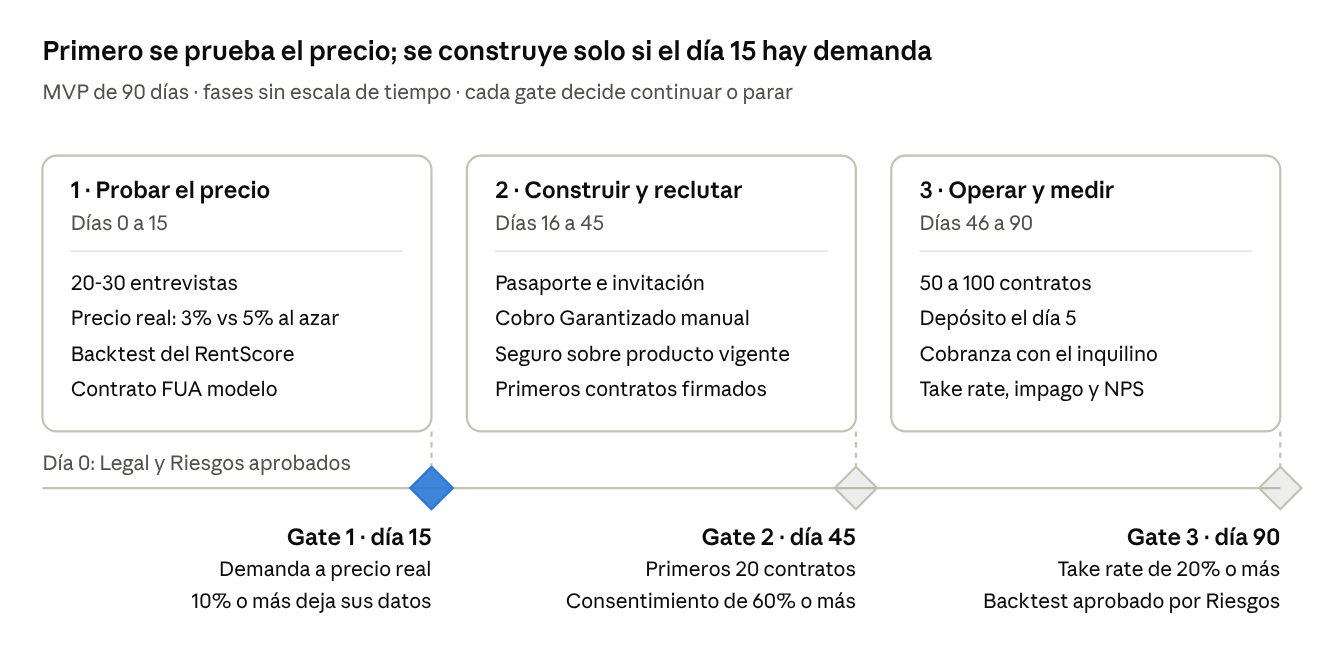
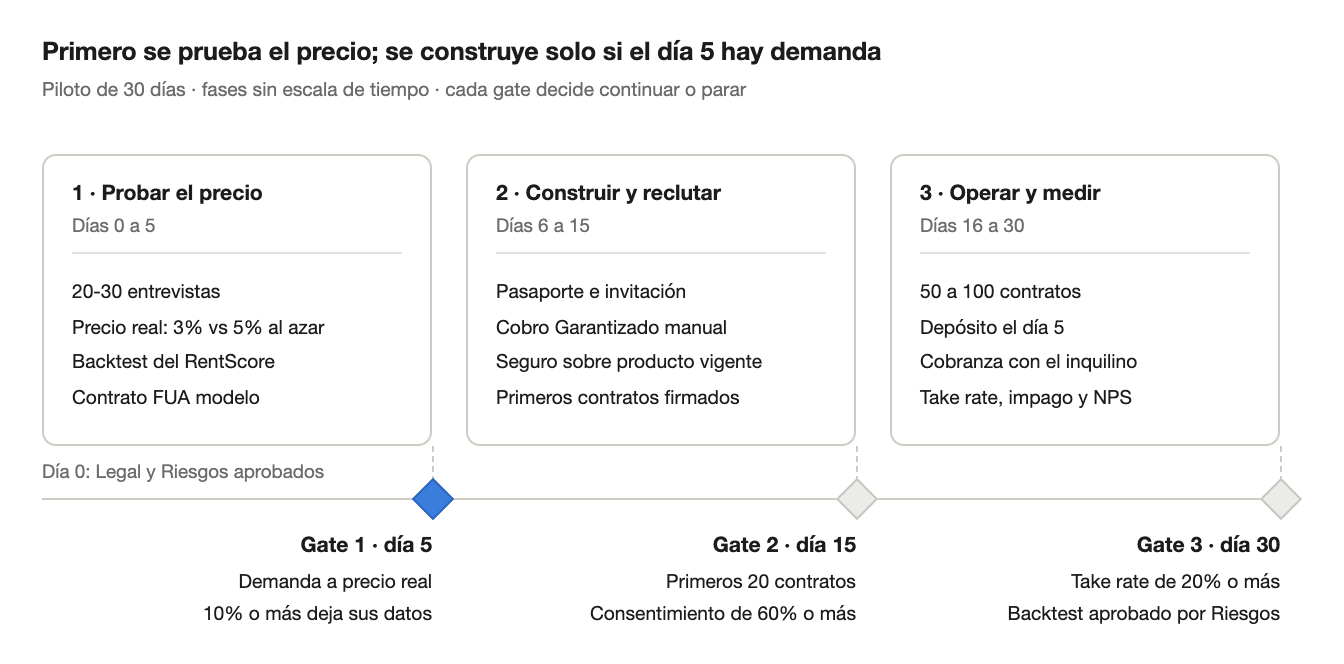
Piloto de 30 días, mercado de 700 mil hogares y caso financiero integrado
- Decisión 026: el piloto dura 30 días y reemplaza la duración de la 004. Se
  actualizan las referencias vigentes (README, CONTRATOS, CLAUDE.md, mvp/,
  decisiones 001, 012, 017, 022, 023 y 024, context/01, 02 y 06). Se mantienen
  la rúbrica oficial y los registros históricos, con nota donde corresponde.
- context/06: gates reescalados a los días 5, 15 y 30 y roadmap regenerado.
- Mercado: 700 mil hogares arrendatarios en Lima Metropolitana (context/03 y 06).
- Decisión 011 tomada: el modelo financiero a 5 años es el caso base, con sus
  resultados a 700 mil hogares y cuatro pendientes conocidos. Se integra en la
  copia del Big Idea (context/01).

diff --git a/context/06-recomendaciones-final.md b/context/06-recomendaciones-final.md
@@ -2,6 +2,8 @@
 
 > **Qué es:** copia versionada del doc vivo «La Llave — Recomendaciones iniciales para la final» en Claude Docs ([enlace](https://claude.ai/code/artifact/4eed856b-4c08-4bb7-ad2a-a13550ff75b1); solo lo abre quien tenga acceso compartido). Si ambos difieren, manda esta copia hasta que un PR la actualice.
 >
+> **Actualización (30 sept 2026):** los plazos pasan a un piloto de 30 días (`decisions/026`): gates en los días 5, 15 y 30, antes 15, 45 y 90. El mercado pasa a 700 mil hogares (`03-mercado-y-fuentes.md`). El resto del texto no cambió.
+>
 > **Fecha:** 29 sept 2026. **Autor:** Diego Moscoso, con Claude. **Estado:** propuesta para discusión del equipo; no cierra ninguna decisión.
 >
 > **Relación con decisiones:** las propuestas que cambian decisiones vigentes están abiertas en `decisions/021` a `decisions/025`. Los hechos verificados están en `03-mercado-y-fuentes.md`.
@@ -10,7 +12,7 @@
 
 ## Resumen ejecutivo
 
-LLAVE ya tiene lo más difícil: un dolor claro y dos journeys conectados que se pueden demostrar. Hoy puntuaría por debajo de su potencial por cuatro huecos: el impacto no tiene cifra propia, la novedad se afirma de forma frágil, el MVP es muy ancho para 90 días y la demo termina antes de cumplir la promesa.
+LLAVE ya tiene lo más difícil: un dolor claro y dos journeys conectados que se pueden demostrar. Hoy puntuaría por debajo de su potencial por cuatro huecos: el impacto no tiene cifra propia, la novedad se afirma de forma frágil, el MVP es muy ancho para un piloto de 30 días y la demo termina antes de cumplir la promesa.
 
 **La frase de 30 segundos (propuesta).** Casi 1 de cada 4 viviendas de Lima se alquila y el propietario elige inquilino a ciegas. Con LLAVE, Interbank evalúa al inquilino e Interseguro protege el inmueble; el propietario cobra el día 5, pague o no el inquilino. Y el inquilino construye historial crediticio pagando su alquiler, algo que hoy no le suma.
 
@@ -95,7 +97,7 @@ Cuatro reglas que no se negocian al cambiar la UI:
 3. **0:50-1:20 · La bandeja decide.** Lucía es garantizable; Jorge no, porque la renta supera su capacidad; Kevin tiene score bajo.
 4. **1:20-2:00 · Decide y protege.** Carmen acepta a Lucía: el seguro de S/36 al mes lo paga Lucía, y Carmen activa Cobro Garantizado por S/54 al mes.
 5. **2:00-2:30 · El mes 4.** Lucía no paga. Carmen recibe S/1,746 el día 5 e Interbank gestiona el pago con Lucía.
-6. **2:30-3:00 · El cierre.** Lucía era invisible para el banco y hoy construye historial. Pedido al jurado: 90 días, un squad y un tope de pérdida en soles.
+6. **2:30-3:00 · El cierre.** Lucía era invisible para el banco y hoy construye historial. Pedido al jurado: 30 días, un squad y un tope de pérdida en soles.
 
 ## Definiciones de negocio: del catálogo de niveles al contrato garantizado
 
@@ -160,7 +162,7 @@ Con las seis jugadas, el puntaje ponderado estimado sube de 2.65 a 4.15 sobre 5.
 | --- | --- | --- | --- | --- | --- |
 | Impacto potencial | 40% | 2.5 | 4.0 | Cifras heredadas de la herramienta de IA, sin ingresos para los niveles 2 y 3 y sin evidencia de demanda | Caso base por contrato (decisión 011), North Star, entrevistas con prueba de precio y contratos ya existentes |
 | Necesidad y enfoque innovador | 30% | 3.5 | 4.5 | Dolor real pero sin entrevistas formales; «no existe en Latinoamérica» es falso | Novedad acotada con fuentes (en el Perú no encontramos garantía de renta), el alquiler como historial crediticio y el pasaporte portátil |
-| Factibilidad (MVP en 90 días) | 30% | 2.0 | 4.0 | Cuatro niveles, marketplace propio y dos productos de crédito sin aprobación de Riesgos, Legal ni SBS | Estructura legal cerrada antes del día 0, tope de pérdida en soles, Renta Adelantada acotada y marketplace liviano |
+| Factibilidad (rúbrica: MVP en 90 días; piloto de 30) | 30% | 2.0 | 4.0 | Cuatro niveles, marketplace propio y dos productos de crédito sin aprobación de Riesgos, Legal ni SBS | Estructura legal cerrada antes del día 0, tope de pérdida en soles, Renta Adelantada acotada y marketplace liviano |
 | **Total ponderado** | 100% | **2.65** | **4.15** | | |
 
 Es una estimación cualitativa para priorizar, hecha sobre el repositorio al 29 sept 2026. No predice la nota del jurado.
@@ -181,12 +183,12 @@ El jurado va a atacar riesgo, legalidad y demanda antes que la interfaz. Cada re
 | 8 | ¿Cómo recuperan el inmueble si no paga? | Con contratos listos para desalojo notarial (Ley 30933): FUA o escritura pública, dos cláusulas y la renta abonada en una cuenta supervisada por la SBS. La Cuenta Arrendador cumple ese requisito | Modelo de contrato revisado por Legal |
 | 9 | ¿Cómo evitan la selección adversa? | El seguro y la garantía solo se ofrecen después del score. Son elegibles las bandas media y alta con renta dentro de la capacidad de pago | Reglas aprobadas por Riesgos (decisión 021) |
 | 10 | ¿Cómo verifican el ingreso de quien no es cliente? | Hoy el prototipo lo simula. Con su consentimiento, el inquilino sustenta su ingreso; mientras no esté verificado, se usa una capacidad de pago conservadora | Fuente de ingreso para no clientes definida con Riesgos |
-| 11 | ¿Qué aprenden de riesgo en solo 90 días? | Poco, y lo decimos: con 100 contratos jóvenes, incluso 10% de impago anual daría 1 o 2 casos. El riesgo se estima con un backtest y se confirma con 12 meses de seguimiento | Backtest del RentScore sobre clientes que ya pagan alquiler por transferencia, con Legal |
+| 11 | ¿Qué aprenden de riesgo en solo 30 días? | Poco, y lo decimos: con 100 contratos jóvenes, incluso 10% de impago anual daría 1 o 2 casos. El riesgo se estima con un backtest y se confirma con 12 meses de seguimiento | Backtest del RentScore sobre clientes que ya pagan alquiler por transferencia, con Legal |
 | 12 | ¿Para qué un marketplace si ya existen portales? | No competimos por avisos: el Pasaporte RentScore funciona en cualquier aviso, y el marketplace es la vitrina mínima del piloto | Costo de tráfico y revisión de la 017 (decisión 023) |
 | 13 | ¿Cómo consiguen propietarios sin gastar en medios? | Muchos ya están en la base: clientes que reciben transferencias recurrentes de montos de alquiler. Se usará solo con aprobación de Legal | Conteo validado por Legal y Compliance |
-| 14 | ¿De qué tamaño es la oportunidad? | La provincia de Lima tenía 520,202 viviendas alquiladas en 2017; el equipo estima 650-700 mil hogares hoy. Por contrato de S/1,800, el grupo cobra S/1,080 a S/1,836 al año antes de pérdidas | Caso base de la decisión 011 |
+| 14 | ¿De qué tamaño es la oportunidad? | La provincia de Lima tenía 520,202 viviendas alquiladas en 2017; el equipo estima 700 mil hogares hoy. Por contrato de S/1,800, el grupo cobra S/1,080 a S/1,836 al año antes de pérdidas | Caso base de la decisión 011 |
 | 15 | ¿Qué pasa con los datos y el sesgo del algoritmo? | El propietario ve score y capacidad, nunca movimientos ni saldos. El consentimiento es granular y revocable, y el score se explica por factores | Revisión de Legal (Ley 29733) y de Riesgos sobre las variables |
-| 16 | ¿Qué nos piden y cuánto podemos perder? | Noventa días, un squad de cinco personas y un tope de pérdida. Si los 100 contratos dejaran de pagar desde el mes 4, se perderían S/1.2 millones; con 5% de impago severo, unos S/60 mil | Costo real del squad, no la cifra de IA de US$400-500K; cada Renta Adelantada expone hasta S/18,360 |
+| 16 | ¿Qué nos piden y cuánto podemos perder? | Treinta días, un squad de cinco personas y un tope de pérdida. Si los 100 contratos dejaran de pagar desde el mes 4, se perderían S/1.2 millones; con 5% de impago severo, unos S/60 mil | Costo real del squad, no la cifra de IA de US$400-500K; cada Renta Adelantada expone hasta S/18,360 |
 
 ### Precedentes que el jurado puede citar
 
@@ -202,11 +204,11 @@ La categoría existe y escala en la región. En el Perú no encontramos una gara
 
 La necesidad tiene voz propia: en 2024 la Cámara Inmobiliaria Peruana propuso un seguro contra inquilinos morosos y dijo que el alquiler «es como un crédito a mediano plazo» ([Gestión](https://gestion.pe/tu-dinero/inmobiliarias/nuevo-seguro-inmobiliario-la-propuesta-de-la-cip-para-asegurar-a-propietarios-de-inquilinos-morosos-camara-inmobiliaria-peruana-noticia/)). En la región, una aseguradora respalda la garantía; LLAVE tiene balance y aseguradora dentro del mismo grupo.
 
-## MVP en 90 días: una promesa, tres gates
+## Piloto de 30 días: una promesa, tres gates
 
 El MVP debe probar una sola promesa con contratos reales: «recibe tu renta el día 5, pague o no tu inquilino». Propongo de 50 a 100 contratos en Lima Moderna, en tres fases con un gate de continuar o parar al final de cada una.
 
-![Roadmap del MVP de 90 días: tres fases y tres gates de continuar o parar](originals/06-recomendaciones-roadmap-mvp.png)
+![Roadmap del piloto de 30 días: tres fases y tres gates de continuar o parar](originals/06-recomendaciones-roadmap-mvp.png)
 
 El día 0 exige la estructura legal y el tope de pérdida aprobados; sin eso, el MVP no arranca. El gate 1 pide que 10% o más de los contactados deje sus datos ante el precio real, probado al azar a 3% y 5%.
 
@@ -221,12 +223,12 @@ El gate 2 pide 20 contratos firmados antes de escalar a 50-100. El gate 3 no val
 | Métrica | Cómo se mide | Umbral (propuesta) |
 | --- | --- | --- |
 | Interés a precio real (gate 1) | Propietarios contactados que dejan sus datos ante el precio, con 3% y 5% al azar | 10% o más |
-| Contratos firmados (gate 2) | Contratos garantizados con inquilino elegible | 20 al día 45 |
+| Contratos firmados (gate 2) | Contratos garantizados con inquilino elegible | 20 al día 15 |
 | Take rate de Cobro Garantizado (gate 3) | Propietarios con inquilino elegible que lo activan a precio real | 20% o más |
 | Backtest de riesgo (gate 3) | Impago histórico estimado para las bandas media y alta | Aprobado por Riesgos |
 | Consentimiento del inquilino | Postulantes que autorizan su RentScore sobre los que inician | 60% o más |
 | Postulantes nuevos para el banco | No clientes sobre postulantes únicos | 30% o más |
-| NPS de propietarios | Encuesta a los 60 y 90 días | 40 o más |
+| NPS de propietarios | Encuesta a los 20 y 30 días | 40 o más |
 | Costo por contrato garantizado | Gasto de adquisición sobre contratos activos | A fijar con Growth |
 | Impago temprano | Contratos con al menos un mes impago | Solo monitoreo |
 

diff --git a/context/01-propuesta-big-idea.md b/context/01-propuesta-big-idea.md
@@ -6,6 +6,8 @@ Fuente: `originals/LLAVE_BigIdea_RentaGarantizada.docx` (Taller 2, 14 sept 2026)
 
 > Actualizado el 29 sept 2026: la sección «Precedente global» corrige la afirmación sobre Latinoamérica (ver `03-mercado-y-fuentes.md`). El texto original se conserva por trazabilidad.
 
+> Actualizado el 30 sept 2026: el piloto dura 30 días (`decisions/026`), se integra el caso financiero a cinco años del modelo del equipo (`decisions/011`) y el mercado es de 700 mil hogares arrendatarios en Lima Metropolitana (`03-mercado-y-fuentes.md`). Las cifras de impacto de la herramienta de IA quedan reemplazadas por el modelo.
+
 ## Descripción corta
 
 Plataforma que evalúa al inquilino con datos bancarios reales y lo vincula a un seguro de hogar mensual que protege el inmueble de daños. Además, el propietario puede elegir que Interbank le pague la renta cada mes de forma garantizada (Interbank asume el impago), o incluso le adelante la renta de un contrato de un año.
@@ -40,11 +42,27 @@ El propietario limeño decide por intuición y con papeles falseables, sin prote
 
 - Evaluación de inquilino de 30 días a 48 horas.
 - Penetración aseguradora en MIPYME inmobiliario: menos de 5% hoy, objetivo 30% en 3 años.
-- Primas recurrentes estimadas en S/8-12 millones anuales con 15,000 pólizas activas (nivel 1). Cifra de la herramienta de IA del taller, no verificada. El handoff tiene una proyección propia más conservadora, ver `03-mercado-y-fuentes.md`.
-- Ingresos de niveles 2 y 3: pendientes de modelar con Riesgos y Finanzas. No hay cifra a propósito.
+- Primas del seguro de hogar: S/12.7M en el año 5 del caso base, sobre los contratos con Cobro Garantizado o Renta Adelantada. Reemplaza la cifra de S/8-12M con 15,000 pólizas de la herramienta de IA del taller.
+- Ingresos financieros de Cobro Garantizado y Renta Adelantada: S/16.7M en el año 5 del caso base, sobre un saldo medio colocado de S/75.0M. Precios del equipo, sin sustento actuarial.
 - Siniestralidad proyectada 40% menor que un seguro tradicional (no verificado).
 - Churn de propietarios de 35% a 10% (no verificado).
 - Datos de comportamiento de inquilinos como activo para scoring y crédito hipotecario.
+
+## Caso financiero a cinco años (proyección)
+
+Modelo financiero del equipo (`decisions/011`), sin validación actuarial ni de Riesgos. Cuenta solo los contratos con Cobro Garantizado o Renta Adelantada, también para las primas del seguro. Mercado: 700 mil hogares arrendatarios en Lima Metropolitana hoy, +3.5% anual. Los dos escenarios comparten precio, riesgo y costos; solo cambia la penetración de hogares al año 5.
+
+| Año 5 | Conservador | Base |
+| --- | --- | --- |
+| Penetración de hogares | 5% | 10% |
+| Contratos con Cobro Garantizado o Renta Adelantada | 5.9 mil | 13.3 mil |
+| Saldo medio colocado | S/33.4M | S/75.0M |
+| Ingresos brutos | S/13.1M | S/29.4M |
+| BAI | S/3.4M | S/8.9M |
+| BAI acumulado en 5 años | S/4.3M | S/19.1M |
+| Primer año con BAI positivo | Año 3 | Año 2 |
+
+El 46% del margen bruto viene del seguro, que no consume activo. El ROA solo crédito (BAI del crédito sobre saldo) es de 5.3% a 6.2%.
 
 ## Impacto social
 
@@ -72,7 +90,7 @@ No se encontró un jugador equivalente en Perú ni en Latinoamérica. Esa búsqu
 - Capital y provisiones (SBS): un adelanto de renta podría tratarse como operación crediticia, con provisiones y capital regulatorio.
 - Estructura: el equipo descartó la cesión de cobro (el camino de Wectory en Reino Unido) y definió los niveles 2 y 3 como préstamo de consumo a tasa cero, con la comisión como interés implícito (decisión 016). Legal debe revisar transparencia (TCEA) y topes de tasa: la TEA implícita calculada es 36-44% con score alto y 74-95% con medio.
 - Concentración: adelantar contratos completos concentra exposición en inquilinos sin historial de mora maduro.
-- Secuencia: la recomendación original era activar el nivel 2 cuando el score tuviera historial suficiente para descartar selección adversa. El equipo decidió probarlo en el piloto de 90 días, solo con score medio o alto (decisión 012). El nivel 3 también entra al piloto, solo con contratos de 1 año (decisión 016).
+- Secuencia: la recomendación original era activar el nivel 2 cuando el score tuviera historial suficiente para descartar selección adversa. El equipo decidió probarlo en el piloto de 30 días, solo con score medio o alto (decisión 012). El nivel 3 también entra al piloto, solo con contratos de 1 año (decisión 016).
 
 ## Ventaja competitiva
 

diff --git a/decisions/011-moneda-y-cifras.md b/decisions/011-moneda-y-cifras.md
@@ -1,16 +1,44 @@
 # 011. Moneda y cifras de ingresos
 
-**Estado:** ABIERTA. Responsable: William Salinas.
+**Estado:** Tomada el 30 sept 2026 (la registra Diego Moscoso). Antes: ABIERTA. Responsable: William Salinas. Pendiente: los cuatro ajustes del modelo listados al final.
 
 ## Problema
 - El texto generado por la herramienta de IA usa dólares (US$18M de ingresos año 1) y el resto del proyecto opera en soles.
 - La corrección posterior (S/1.5-3M año 1, S/15-25M año 3) no se propagó a todos los documentos.
 - El Big Idea dice S/8-12 millones anuales con 15,000 pólizas; el handoff proyecta S/1.5-3M en año 1. Son horizontes distintos pero no está explicado.
 
-## Acción
-1. Unificar todo a soles.
-2. Definir un solo caso base con supuestos explícitos: número de pólizas, prima promedio y horizonte.
-3. Actualizar deck, Big Idea e infográfico.
+## Decisión (30 sept 2026)
+1. Todo en soles.
+2. El caso base es el modelo financiero a 5 años del equipo: «La Llave: Modelo Financiero.xlsx» y la lámina «La Llave: Escenarios Financieros.pptx», en la carpeta de Drive «CARPETA - DECK FINAL». Reemplaza las cifras de la herramienta de IA (US$18M; S/8-12M con 15,000 pólizas) y la proyección del handoff (S/1.5-3M el año 1).
+3. Mercado: 700 mil hogares arrendatarios en Lima Metropolitana hoy, +3.5% anual (`context/03-mercado-y-fuentes.md`).
+4. Alcance: el modelo cuenta solo los contratos con Cobro Garantizado o Renta Adelantada, también para las primas del seguro de hogar. Es intencional.
+5. El Big Idea (Google Doc y `context/01`) y la lámina usan estas cifras.
 
-## Nota
-No añadir cifras de ingresos de Cobro Garantizado o Renta Adelantada sin sustento actuarial. Los precios (012 y 016) son cifras del equipo, no proyecciones de ingresos.
+La nota anterior de esta decisión («no añadir cifras de ingresos de Cobro Garantizado o Renta Adelantada sin sustento actuarial») queda reemplazada: el equipo presenta la proyección, marcada como proyección con supuestos propios, sin validación actuarial ni de Riesgos.
+
+## Resultado del modelo (proyección, año 5)
+
+Los dos escenarios comparten precio, riesgo y costos; solo cambia la penetración de hogares al año 5.
+
+| Concepto | Conservador | Base |
+| --- | --- | --- |
+| Penetración de hogares, año 5 | 5% | 10% |
+| Contratos con Cobro Garantizado o Renta Adelantada (promedio del año) | 5.9 mil | 13.3 mil |
+| Saldo medio colocado | S/33.4M | S/75.0M |
+| Ingresos brutos (financieros + primas) | S/13.1M | S/29.4M |
+| Margen bruto | S/7.3M | S/16.4M |
+| BAI | S/3.4M | S/8.9M |
+| BDI | S/2.4M | S/6.3M |
+| ROA total / solo crédito | 10.2% / 5.3% | 11.9% / 6.2% |
+| BAI acumulado en 5 años | S/4.3M | S/19.1M |
+| Primer año con BAI positivo | Año 3 | Año 2 |
+
+Supuestos comunes: renta promedio S/2,310 (+3.5% anual), 60% elegible, 20% toma Cobro Garantizado y 10% Renta Adelantada, tasas de 48% (Cobro Garantizado) y 17.5% (Renta Adelantada) sobre el saldo, costo de fondos 4%, prima de 3% de la renta con siniestralidad de 40%, gasto de riesgo de 6.5% del saldo, ventas 8% de los ingresos, generales 15% de la prima y 3% del saldo, y costo fijo de S/1M al año.
+
+## Pendientes conocidos del modelo
+Detectados en la revisión de coherencia del 30 sept 2026. El equipo decidió dejarlos pendientes; al corregirlos cambian las cifras de arriba.
+
+1. **Gasto de riesgo.** Es 6.5% del saldo medio (promedio simple de 5% y 8%). La nota del propio modelo lo describe como contratos × probabilidad de impago × (meses sin pago − meses de garantía) × renta. En Cobro Garantizado el saldo es de 15 días de renta, pero ante un impago Interbank sigue pagando varios meses.
+2. **Tasas.** El modelo usa 48% y 17.5%; las tasas implícitas del pricing de las decisiones 012 y 016 son 91.2% y 37.8%.
+3. **Renta Adelantada con score medio.** El modelo usa 20%; la decisión 016 y el prototipo, 25%.
+4. **Chequeo contra el tope del BCRP.** Compara tasas simples con una TEA. Con el pricing de la 012 y 15 días financiados, Cobro Garantizado al 5% equivale a una TEA de ~248% (al 3%, ~110%), frente al tope de 114.13%. Ver la decisión 025.

diff --git a/CLAUDE.md b/CLAUDE.md
@@ -15,13 +15,14 @@ No hay producto ni validación con usuarios. Existe un prototipo navegable con d
 1. Marketplace propio de LLAVE con flujo de inquilino, y entra al piloto (decisión 017, reemplaza a la 001). El inquilino busca, se registra, autoriza su RentScore y postula dentro de LLAVE.
 2. RentScore y Seguro van juntos, por selección adversa.
 3. El inquilino contrata y paga el seguro de hogar (2-5% de la renta, decisión 010). El propietario es el beneficiario. No reemplaza el depósito ni cubre impago.
-4. El MVP cabe en 90 días y prueba una sola hipótesis: el propietario paga por la garantía de cobro (Cobro Garantizado o Renta Adelantada) más de lo que paga hoy por publicar.
+4. El MVP se prueba en un piloto de 30 días (decisión 026) con una sola hipótesis: el propietario paga por la garantía de cobro (Cobro Garantizado o Renta Adelantada) más de lo que paga hoy por publicar.
 5. Box 3 es el lente de evaluación del programa.
 6. Cobro Garantizado se prueba con comisión real en el MVP (decisión 012): 3% de cada renta con score alto, 5% con score medio, no disponible con score bajo. Interbank asume el impago.
 7. El inquilino autoriza que el propietario vea su RentScore al postular (decisión 015). El propietario no lo solicita.
 8. Renta Adelantada entra al MVP (decisión 016): solo contratos de 1 año; comisión de 15% de la renta del año con score alto, 25% con medio, no disponible con score bajo. Cifras de 012 y 016 del equipo, sin sustento actuarial.
 9. En Cobro Garantizado y Renta Adelantada el deudor es el inquilino y el beneficiario es el propietario (decisión 018). Interbank presta al inquilino, paga al propietario, el inquilino devuelve mes a mes; la comisión la absorbe el propietario. Falta Legal, Riesgos y SBS.
 10. El walkthrough (`prototype/app/public/walkthrough/`) es parte de todo entregable (decisión 020). Todo cambio de look and feel o de navegación del prototipo lo actualiza en el mismo cambio.
+11. Caso financiero (decisión 011): el modelo a 5 años de la carpeta «CARPETA - DECK FINAL» es el caso base, con 700 mil hogares arrendatarios en Lima Metropolitana hoy. Es proyección con supuestos del equipo, sin validación actuarial ni de Riesgos, y tiene cuatro pendientes conocidos listados en la 011.
 
 ## Los tres dolores que resuelve LLAVE (marco de negocio re-consensuado, 29 sept 2026)
 
@@ -31,7 +32,6 @@ No hay producto ni validación con usuarios. Existe un prototipo navegable con d
 
 ## Decisiones abiertas (no resolver por tu cuenta, señalarlas)
 
-- 011: moneda y cifras de ingresos.
 - 013: portal propio de Interbank o alianza. Ya no bloquea el flujo del inquilino (hay marketplace propio, 017); sigue abierta como canal adicional de inventario y tráfico.
 - 014: número de equipo y composición del jurado.
 - 021 a 025: propuestas de `context/06-recomendaciones-final.md` (elegibilidad por capacidad de pago, Renta Adelantada solo con score alto, alcance del marketplace, hipótesis y North Star, estructura de Cobro Garantizado). No aplicarlas hasta que el equipo las cierre.

diff --git a/decisions/017-marketplace-propio.md b/decisions/017-marketplace-propio.md
@@ -13,15 +13,15 @@ Al desarrollar el flujo del inquilino aparece un problema: sin una superficie pr
 3. Híbrido: mock del portal aliado con LLAVE como capa "Postula con RentScore".
 
 ## Criterio
-Control del momento de adquisición del inquilino y del dato, frente al riesgo de ejecución en 90 días que motivó la 001.
+Control del momento de adquisición del inquilino y del dato, frente al riesgo de ejecución en el piloto que motivó la 001.
 
 ## Decisión
-Opción 2. LLAVE tiene marketplace propio con flujo de inquilino completo: buscar, ver ficha, registrarse (lead form), autorizar el RentScore y postular. **Entra al piloto de 90 días, no solo al prototipo.**
+Opción 2. LLAVE tiene marketplace propio con flujo de inquilino completo: buscar, ver ficha, registrarse (lead form), autorizar el RentScore y postular. **Entra al piloto de 30 días (decisión 026), no solo al prototipo.**
 
 ## Consecuencias
 - La decisión 001 queda **reemplazada por esta**. No se revierte en silencio: se documenta aquí.
 - Cambia el alcance del MVP (004). El marketplace propio entra a la tabla "Entra" de `mvp/README.md`. Se asume el riesgo de ejecución que la 001 quería evitar; el equipo lo acepta a cambio de controlar la adquisición del inquilino y el dato.
 - Se pierde el argumento de "no construir marketplace" frente al jurado. A cambio, la demo muestra el círculo completo: el inquilino postula y aparece en la bandeja del propietario.
 - La 013 (portal propio o alianza) deja de ser bloqueante para el flujo del inquilino, pero sigue abierta como canal adicional de inventario y tráfico.
-- Riesgo de factibilidad en 90 días a vigilar: construir y operar un marketplace es mucho más que el mock de la 013. El equipo debe dimensionar inventario inicial, carga de avisos y tráfico en `mvp/README.md`.
+- Riesgo de factibilidad en el piloto de 30 días a vigilar: construir y operar un marketplace es mucho más que el mock de la 013. El equipo debe dimensionar inventario inicial, carga de avisos y tráfico en `mvp/README.md`.
 - El prototipo del taller ya incluye el flujo del inquilino sobre este supuesto.

diff --git a/CONTRATOS.md b/CONTRATOS.md
@@ -1,6 +1,6 @@
 # Contratos del repositorio
 
-Qué garantiza cada carpeta y documento, y cómo se cambia. Complementa las reglas del `README.md`; si algo de aquí contradice una decisión de `decisions/`, manda la decisión. Última actualización: 29 sept 2026.
+Qué garantiza cada carpeta y documento, y cómo se cambia. Complementa las reglas del `README.md`; si algo de aquí contradice una decisión de `decisions/`, manda la decisión. Última actualización: 30 sept 2026.
 
 | Artefacto | Qué contiene | Qué garantiza | Cómo se cambia |
 | --- | --- | --- | --- |
@@ -11,7 +11,7 @@ Qué garantiza cada carpeta y documento, y cómo se cambia. Complementa las regl
 | `prototype/` | Prototipo navegable (`app/`) y legado (`src/`, `data/`) | Solo datos ficticios. Todo valor inventado lleva la etiqueta SUPUESTO y está en `prototype/docs/supuestos.md`. Las integraciones van detrás de providers simulados (decisión 019) y el RentScore no cambia sin Riesgos | PR con `npm run check` en verde; si cambia el look and feel o la navegación, el mismo PR actualiza el walkthrough (decisión 020) |
 | `prototype/app/public/walkthrough/` | Guía navegable con capturas de ambos journeys, para quien no conoce el proyecto | Refleja la navegación y el look and feel vigentes. `walkthrough:verificar` falla si una ruta no está documentada, si falta o sobra una captura o si un enlace interno no tiene destino | `npm run walkthrough:capturas`, textos y fecha de la guía, y `npm run check` en verde, en el mismo PR del cambio visual |
 | `local_deploy/` | Versión compilada para abrir sin servidor ni internet | Es generada: no se edita a mano | `npm run build:local` desde `prototype/app` |
-| `mvp/` | Especificación del piloto de 90 días | Solo se llama «entrevista» a lo documentado en `mvp/validacion/` | PR |
+| `mvp/` | Especificación del piloto de 30 días | Solo se llama «entrevista» a lo documentado en `mvp/validacion/` | PR |
 | `aidlc-docs/` | Documentación del ciclo AI-DLC | `audit.md` registra con fecha cada interacción del ciclo | Lo actualiza el flujo AI-DLC |
 
 ## Reglas transversales

diff --git a/decisions/README.md b/decisions/README.md
@@ -7,10 +7,10 @@ Una decisión por archivo. Numeración: 001-009 tomadas, 010 en adelante abierta
 | 001 | No construir marketplace propio | ~~Tomada~~ Reemplazada por 017 | Equipo |
 | 002 | RentScore y Seguro van juntos | Tomada | Equipo |
 | 003 | El inquilino contrata y paga un seguro de hogar (no reemplaza el depósito ni cubre impago) | Tomada | Equipo |
-| 004 | MVP de 90 días con una sola hipótesis | Tomada | Equipo |
+| 004 | MVP con una sola hipótesis (duración original de 90 días) | Tomada. Duración reemplazada por 026 | Equipo |
 | 005 | Box 3 como lente de evaluación | Tomada | Equipo |
 | 010 | Precio del seguro: 2-5% de la renta | Tomada (25 sept 2026). Falta tarificar con Interseguro | Equipo + Interseguro |
-| 011 | Moneda y cifras de ingresos | **Abierta** | William Salinas |
+| 011 | Moneda y cifras: el modelo financiero a 5 años es el caso base, con 700 mil hogares | Tomada (30 sept 2026). Cuatro pendientes del modelo | William Salinas |
 | 012 | Cobro Garantizado con comisión real en el MVP: 3% score alto, 5% medio, no elegible bajo | Tomada (25 sept 2026). Falta aprobación de Riesgos | Equipo |
 | 013 | Portal: propio de Interbank o alianza | **Abierta** | Equipo + Growth y Victoria |
 | 014 | Número de equipo y composición del jurado | **Abierta** | Luis Carlos Jiménez Lara |
@@ -25,5 +25,6 @@ Una decisión por archivo. Numeración: 001-009 tomadas, 010 en adelante abierta
 | 023 | Marketplace liviano, Pasaporte RentScore e invitación al inquilino actual (propuesta; revisa 017) | **Abierta** | Por asignar |
 | 024 | Hipótesis del MVP en dos partes y North Star (propuesta; revisa 004) | **Abierta** | Por asignar |
 | 025 | Estructura de Cobro Garantizado: préstamo a tasa cero o garantía con comisión (propuesta; revisa 016 y 018) | **Abierta** | Por asignar (Legal y Riesgos) |
+| 026 | Piloto de 30 días (reemplaza la duración de 004) | Tomada (30 sept 2026) | Equipo |
 
 Formato de cada archivo: contexto, opciones, criterio, decisión, consecuencias, fecha y responsable.

diff --git a/decisions/026-piloto-de-30-dias.md b/decisions/026-piloto-de-30-dias.md
@@ -1,0 +1,24 @@
+# 026. Piloto de 30 días
+
+**Estado:** Tomada el 30 sept 2026. La registra Diego Moscoso. Reemplaza la duración de la decisión 004 (90 días); la hipótesis de la 004 no cambia.
+
+## Contexto
+El Big Idea actualizado el 30 sept 2026 (Google Doc «LLAVE_BigIdea_RentaGarantizada») habla de un piloto de 30 días. El repositorio decía 90 días (decisión 004). La rúbrica oficial pide que el MVP «pueda construirse en 90 días con recursos razonables» (`context/04-programa-y-calendario.md`).
+
+## Opciones
+1. Mantener el piloto de 90 días y corregir el Big Idea.
+2. Piloto de 30 días en todo el proyecto.
+
+## Criterio
+Una sola cifra en todos los entregables de la final.
+
+## Decisión
+Opción 2. El piloto dura 30 días. Las referencias vigentes del repo, del Big Idea y de las recomendaciones (`context/06`) pasan a 30 días.
+
+Se mantienen sin cambio, porque citan o registran algo que ya ocurrió: la rúbrica oficial (`context/04`), el historial del handoff (`context/02`, con nota), el contexto original de la 004 (con nota), la decisión 001 ya reemplazada y las preguntas del ciclo AI-DLC (`aidlc-docs/`).
+
+## Consecuencias
+- Un piloto de 30 días cabe dentro de los 90 días que pide la rúbrica.
+- Los plazos propuestos de `context/06` y de la 024 se reescalan a un tercio: gate 1 en el día 5 (antes 15), gate 2 en el día 15 (antes 45), gate 3 en el día 30 (antes 90) y NPS a los 20 y 30 días (antes 60 y 90). Los umbrales siguen siendo propuestas para Growth y Riesgos.
+- En 30 días se observa como máximo un ciclo de cobro (el depósito del día 5): el piloto mide demanda, no riesgo. El riesgo se estima con el backtest del RentScore y se confirma con 12 meses de seguimiento, como ya proponía la 024.
+- Firmar 20 contratos al día 15 y operar 50 a 100 al día 30 exige más que en 90 días: el día 0 (Legal y Riesgos aprobados) y el reclutamiento de propietarios pesan más.

diff --git a/mvp/README.md b/mvp/README.md
@@ -1,4 +1,4 @@
-# MVP: piloto de 90 días
+# MVP: piloto de 30 días
 
 Esto es una especificación, no código. Se completa durante y después del taller.
 
@@ -27,14 +27,14 @@ El propietario paga por la garantía de cobro (RentScore + Cobro Garantizado o R
 | Niveles 2 y 3, solo score medio o alto, como préstamo de consumo a tasa cero (012 y 016) | |
 | Inquilinos sin cuenta Interbank: postulan y su score sale de centrales de riesgo (leads de bancarización) | |
 
-**Cambio de alcance (29 sept 2026, decisión 017):** el marketplace propio pasó de "No entra" a "Entra". Esto añade riesgo de factibilidad en 90 días, el mismo que la 001 quería evitar. El equipo lo asume para controlar la adquisición del inquilino y el dato. Falta dimensionar inventario inicial, carga de avisos, tráfico y su costo; ver "Por completar".
+**Cambio de alcance (29 sept 2026, decisión 017):** el marketplace propio pasó de "No entra" a "Entra". Esto añade riesgo de factibilidad en el piloto (hoy de 30 días, decisión 026), el mismo que la 001 quería evitar. El equipo lo asume para controlar la adquisición del inquilino y el dato. Falta dimensionar inventario inicial, carga de avisos, tráfico y su costo; ver "Por completar".
 
 ## Por completar
 
 - Marketplace (decisión 017): inventario inicial, cómo se cargan los avisos, de dónde sale el tráfico de inquilinos y su costo de adquisición. Es el riesgo de factibilidad nuevo del piloto.
 - Segmento y tamaño del piloto: cuántos propietarios y cuántas pólizas.
 - Métricas de éxito y umbrales: conversión a póliza, prima pagada, disposición a pagar, siniestralidad temprana, renovación.
-- Cronograma día 0 a 90.
+- Cronograma día 0 a 30 (decisión 026).
 - Dependencias: Riesgos, Legal, Interseguro suscripción, Growth y Victoria, TI de Interbank.
 - Presupuesto y equipo real. La cifra de US$400-500K viene de una herramienta de IA y no está verificada.
 

diff --git a/decisions/024-hipotesis-y-north-star-del-mvp.md b/decisions/024-hipotesis-y-north-star-del-mvp.md
@@ -10,12 +10,12 @@ La 004 fija la hipótesis «el propietario paga por la garantía de cobro más d
 2. Hipótesis en dos partes medibles. Demanda: qué % de propietarios con inquilino elegible activa Cobro Garantizado a precio real. Riesgo: la pérdida observada cabe en el tope aprobado. North Star: renta garantizada activa, en S/ al mes.
 
 ## Criterio
-Que la hipótesis se pueda medir en 90 días y que el jurado la entienda sin compararla con un dato de práctica.
+Que la hipótesis se pueda medir en el piloto de 30 días (decisión 026) y que el jurado la entienda sin compararla con un dato de práctica.
 
 ## Propuesta (no vigente hasta cerrarse)
-Opción 2, con umbrales iniciales para discutir con Growth y Riesgos: 10% o más de los propietarios contactados deja sus datos ante el precio real (3% y 5% al azar), 20 contratos al día 45 y take rate de 20% o más al día 90.
+Opción 2, con umbrales iniciales para discutir con Growth y Riesgos: 10% o más de los propietarios contactados deja sus datos ante el precio real (3% y 5% al azar), 20 contratos al día 15 y take rate de 20% o más al día 30 (plazos reescalados de 45 y 90 días por la 026).
 
 ## Consecuencias si se aprueba
 - `mvp/README.md` debe reflejar la nueva hipótesis.
 - El caso base de la 011 se arma desde contratos garantizados.
-- El riesgo no se valida en 90 días: con contratos tan jóvenes, incluso 10% de impago anual daría 1 o 2 casos. Se estima con un backtest del RentScore y se confirma con 12 meses de seguimiento.
+- El riesgo no se valida en 30 días: con contratos tan jóvenes, incluso 10% de impago anual daría 1 o 2 casos. Se estima con un backtest del RentScore y se confirma con 12 meses de seguimiento.

diff --git a/README.md b/README.md
@@ -18,7 +18,7 @@ Hay propuesta y un prototipo navegable con datos ficticios y dos journeys conect
 | `context/originals/` | Archivos originales (docx, PDF, imágenes) |
 | `decisions/` | Decisiones tomadas y decisiones abiertas, una por archivo |
 | `prototype/` | Prototipo navegable con datos falsos (taller AI-DLC) |
-| `mvp/` | Especificación del piloto de 90 días |
+| `mvp/` | Especificación del piloto de 30 días |
 | `prototype/app/public/walkthrough/` | Guía navegable con capturas de ambos journeys, para quien no conoce el proyecto. Se abre desde el pie de la app ("Guía de la demo") |
 | `scripts/` | Utilidades, incluido el script para crear los issues iniciales |
 | `CLAUDE.md` | Contexto para herramientas de IA. Se lee automáticamente |

diff --git a/decisions/001-no-marketplace-propio.md b/decisions/001-no-marketplace-propio.md
@@ -2,7 +2,7 @@
 
 **Estado:** Reemplazada por la decisión 017 el 29 sept 2026. Se conserva por trazabilidad.
 
-> **Nota (29 sept 2026):** esta decisión ya no está vigente. El equipo decidió construir un marketplace propio de LLAVE con flujo de inquilino, y que entre al piloto de 90 días. Ver `017-marketplace-propio.md`. El contenido original se mantiene abajo sin cambios.
+> **Nota (29 sept 2026):** esta decisión ya no está vigente. El equipo decidió construir un marketplace propio de LLAVE con flujo de inquilino, y que entre al piloto (hoy de 30 días, decisión 026). Ver `017-marketplace-propio.md`. El contenido original se mantiene abajo sin cambios.
 
 ---
 
